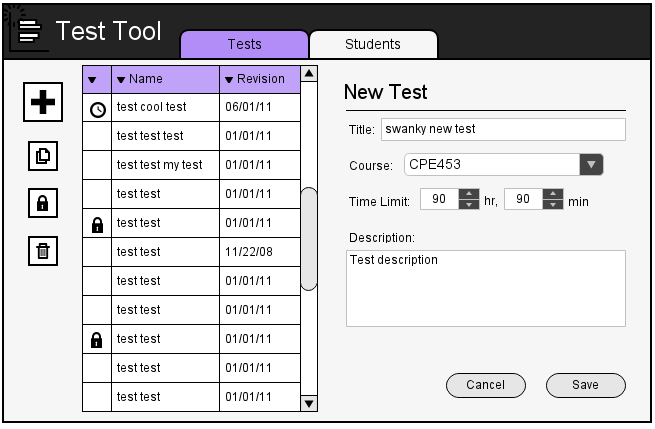
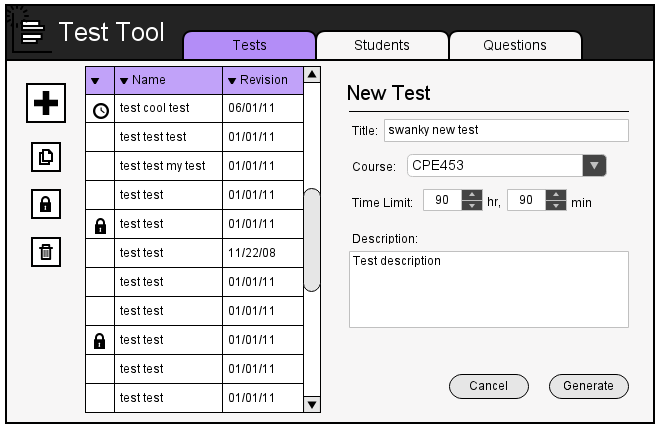
added some new images. working on test-directory.html
git-svn-id: svn+ssh://unix3.csc.calpoly.edu/home/crhoads/projects/SVN/testtool/trunk@144 963ccdc2-257a-457c-a1c1-497300e6edd4

Changed region(s): [[0.0, 0.0, 1.0, 1.0], [0.5191, 0.5455, 0.6718, 0.6364]]

diff --git a/requirements/test-directory.html b/requirements/test-directory.html
@@ -53,12 +53,13 @@ The <tt>Course</tt> field details which course the test falls under.
 The <tt>Time Limit</tt> field details the given time limit for a test. If the
  time remains zero, there is no time limit.
 <p>
-After setting the new test's properties, the user will click <tt>Save</tt> to
- add the test to the directory, or click <tt>Cancel</tt> otherwise.
+After setting the new test's properties, the instructor will click
+ <tt>Generate</tt> to add the test to the directory, or click <tt>Cancel</tt>
+ otherwise.
 <p>
-As an alternative test creation method, the instructor may select one or
- multiple tests from the directory, and then click <tt>Copy</tt> to
- create copies of the selected tests.
+(Alternatively, if the instructor wishes to create a copy of an existing test,
+ the instructor may select one or multiple tests from the directory, and then
+ click <tt>Copy</tt> to create copies of the selected tests.)
 
 <a name="Changing Test Properties">
 <h4>
@@ -82,7 +83,7 @@ The instructor may edit a test's properties by going to the Test Directory,
 <br>
 
 <p>
-All properties are the same as those listed in section ____, test creation.
+All properties are the same as those listed in section 2.6.1, test creation.
 <p>
 Once the instructor finishes making changes, the instructor clicks <tt>Save</tt> to
  commit to the changes, or <tt>Cancel</tt> to cancel the changes.
